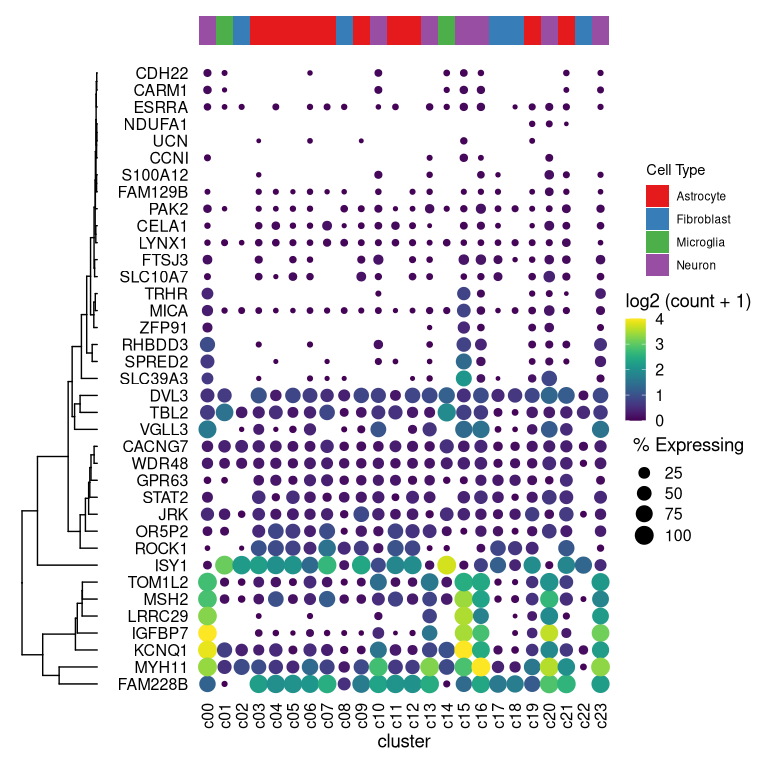
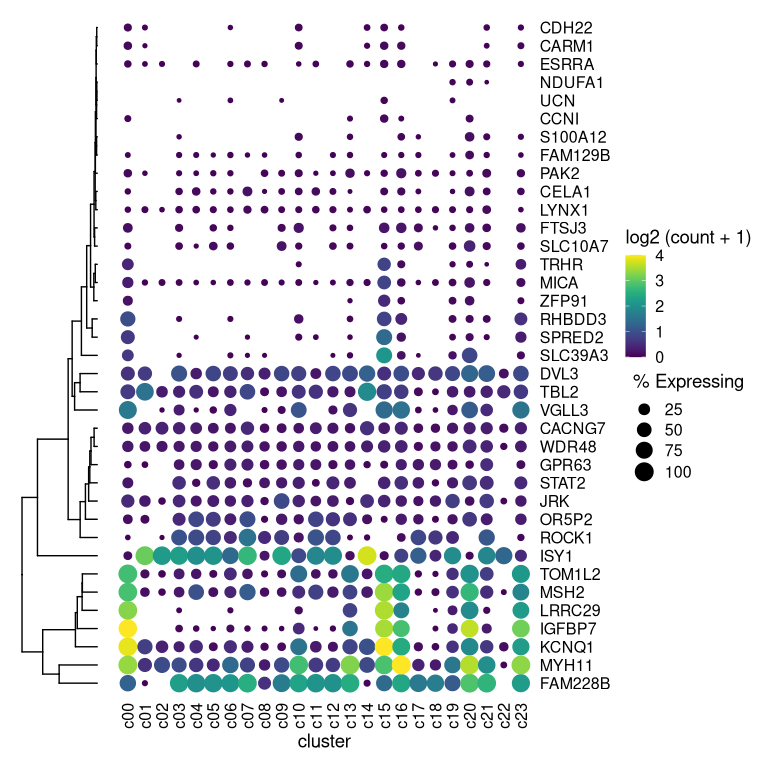
fixed R check

diff --git a/README.md b/README.md
@@ -59,25 +59,19 @@ ggtree_plot | dot_plot | (ggtree_plot_col / labels)
 
 ``` r
 library(aplot)
-dot_plot
-```
-
-![](README_files/figure-gfm/dotplot-1.png)<!-- -->
-
-``` r
 ## the rows of the dot_plot was automatically reorder based on the tree
-p2 <- dot_plot %>% 
-  insert_left(ggtree_plot, width=.2) %>%
-  insert_top(labels, height=.05) 
-p2
+dot_plot %>% 
+  insert_left(ggtree_plot, width=.2) 
 ```
 
 ![](README_files/figure-gfm/dotTree-1.png)<!-- -->
 
 ``` r
 ## the columns of the dot_plot was automatically reorder based on the tree
-p2 %>%
-  insert_top(ggtree_plot_col, height=.2)
+dot_plot %>% 
+  insert_left(ggtree_plot, width=.2) %>%
+  insert_top(labels, height=.02) %>%
+  insert_top(ggtree_plot_col, height=.1)
 ```
 
 ![](README_files/figure-gfm/dotTree2-1.png)<!-- -->
